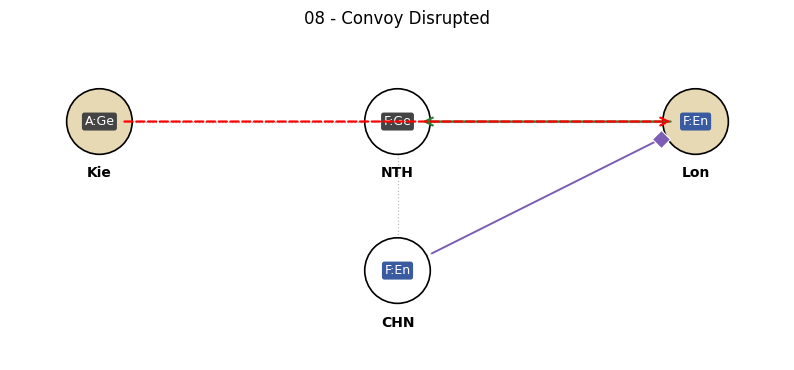
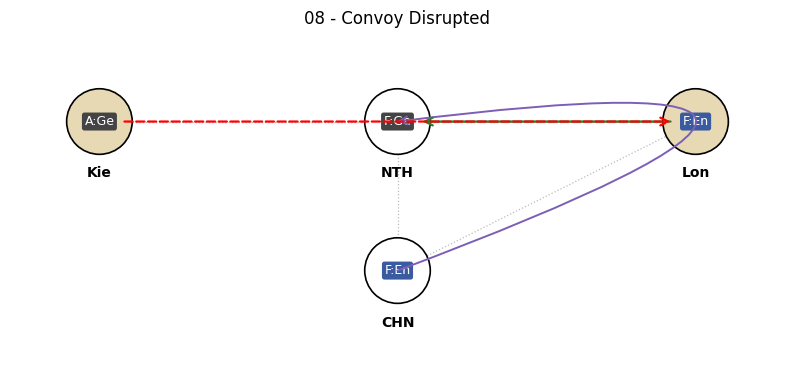
feat(dwex): msup as bezier through supported unit, open arrowhead
Previously msup was just a line + diamond at the supported unit's location,
which lost the 'where is the supported move going?' information. Now msup
renders as a quadratic Bezier curve that:

- starts at the supporter
- passes through the supported unit's starting field at t=0.5
- ends at the supported move's destination, with an open '->' arrowhead
  (two lines, not a filled triangle)

Control point derived analytically so the curve passes exactly through the
midpoint field. If the supported unit has no matching mve order (or the
destination is unknown), the renderer degrades to the previous line+diamond
style so the order stays visible.

hsup unchanged (line + square marker at held unit).

Changed region(s): [[0.5139, 0.3568, 0.8766, 0.7135], [0.6348, 0.2676, 0.8766, 0.327], [0.4836, 0.2973, 0.6348, 0.327]]

diff --git a/project/dipworkpy/tools/dwex/render_png.py b/project/dipworkpy/tools/dwex/render_png.py
@@ -9,6 +9,7 @@ import matplotlib
 matplotlib.use("Agg")
 import matplotlib.pyplot as plt
 from matplotlib.patches import Circle, FancyArrowPatch
+from matplotlib.path import Path as MplPath
 
 from dipworkpy.tools.dwex.model import DwexDocument
 
@@ -60,33 +61,82 @@ def render_png(doc: DwexDocument, out: Path) -> None:
                 bbox=dict(boxstyle="round,pad=0.2", facecolor=color, edgecolor="none"),
                 zorder=4)
 
-    # support orders (hsup / msup) — line from supporter to supported unit, with a
-    # distinct marker shape at the supported end so it cannot be confused with a move:
-    # square for hsup (holding-in-place support), diamond for msup (supporting a move).
+    # support orders.
+    # hsup (support hold): straight violet line from supporter to held unit, square marker.
+    # msup (support move): violet quadratic Bezier curve from supporter THROUGH the
+    #   supported unit's starting field, ending at the supported move's destination.
+    #   Arrow tip is the open-V style (two lines, not a filled triangle).
+    move_dest_by_current: Dict[str, str] = {
+        o.current: o.dest
+        for o in doc.orders
+        if o.order == "mve" and o.dest is not None
+    }
     for o in doc.orders:
-        if o.order not in ("hsup", "msup"):
-            continue
-        if o.dest is None or o.dest not in pos or o.current not in pos:
-            continue
-        x1, y1 = pos[o.current]
-        x2, y2 = pos[o.dest]
-        dx, dy = x2 - x1, y2 - y1
-        length = math.hypot(dx, dy)
-        if length < 1e-3:
-            continue
-        ux, uy = dx / length, dy / length
-        pad = radius + 0.04
-        tip_x, tip_y = x2 - ux * pad, y2 - uy * pad
-        start_x, start_y = x1 + ux * pad, y1 + uy * pad
-        ax.plot(
-            [start_x, tip_x], [start_y, tip_y],
-            color=SUPPORT_COLOR, lw=1.4, zorder=4,
-        )
-        marker = "s" if o.order == "hsup" else "D"
-        ax.scatter(
-            [tip_x], [tip_y], marker=marker, s=85,
-            color=SUPPORT_COLOR, edgecolor="white", linewidths=0.8, zorder=5,
-        )
+        if o.order == "hsup":
+            if o.dest is None or o.dest not in pos or o.current not in pos:
+                continue
+            x1, y1 = pos[o.current]
+            x2, y2 = pos[o.dest]
+            dx, dy = x2 - x1, y2 - y1
+            length = math.hypot(dx, dy)
+            if length < 1e-3:
+                continue
+            ux, uy = dx / length, dy / length
+            pad = radius + 0.04
+            tip_x, tip_y = x2 - ux * pad, y2 - uy * pad
+            start_x, start_y = x1 + ux * pad, y1 + uy * pad
+            ax.plot(
+                [start_x, tip_x], [start_y, tip_y],
+                color=SUPPORT_COLOR, lw=1.4, zorder=4,
+            )
+            ax.scatter(
+                [tip_x], [tip_y], marker="s", s=85,
+                color=SUPPORT_COLOR, edgecolor="white", linewidths=0.8, zorder=5,
+            )
+        elif o.order == "msup":
+            if o.dest is None or o.dest not in pos or o.current not in pos:
+                continue
+            supported_dest = move_dest_by_current.get(o.dest)
+            if supported_dest is None or supported_dest not in pos:
+                # supported unit has no mve (or its dest is unknown) — degrade to a
+                # straight line + diamond marker so the order is still visible.
+                x1, y1 = pos[o.current]
+                x2, y2 = pos[o.dest]
+                dx, dy = x2 - x1, y2 - y1
+                length = math.hypot(dx, dy)
+                if length < 1e-3:
+                    continue
+                ux, uy = dx / length, dy / length
+                pad = radius + 0.04
+                tip_x, tip_y = x2 - ux * pad, y2 - uy * pad
+                start_x, start_y = x1 + ux * pad, y1 + uy * pad
+                ax.plot(
+                    [start_x, tip_x], [start_y, tip_y],
+                    color=SUPPORT_COLOR, lw=1.4, zorder=4,
+                )
+                ax.scatter(
+                    [tip_x], [tip_y], marker="D", s=85,
+                    color=SUPPORT_COLOR, edgecolor="white", linewidths=0.8, zorder=5,
+                )
+                continue
+            # quadratic Bezier passing through the supported unit's start (o.dest)
+            # at parameter t=0.5: B(0.5) = 0.25*P0 + 0.5*P1 + 0.25*P2 = via
+            # => control point P1 = 2*via - 0.5*P0 - 0.5*P2
+            sx, sy = pos[o.current]
+            vx, vy = pos[o.dest]
+            ex, ey = pos[supported_dest]
+            cx = 2 * vx - 0.5 * sx - 0.5 * ex
+            cy = 2 * vy - 0.5 * sy - 0.5 * ey
+            path = MplPath(
+                [(sx, sy), (cx, cy), (ex, ey)],
+                [MplPath.MOVETO, MplPath.CURVE3, MplPath.CURVE3],
+            )
+            arrow = FancyArrowPatch(
+                path=path, arrowstyle="->", mutation_scale=14,
+                color=SUPPORT_COLOR, lw=1.4,
+                shrinkA=18, shrinkB=18, zorder=5,
+            )
+            ax.add_patch(arrow)
 
     # order arrows (mve)
     for o in doc.orders:
